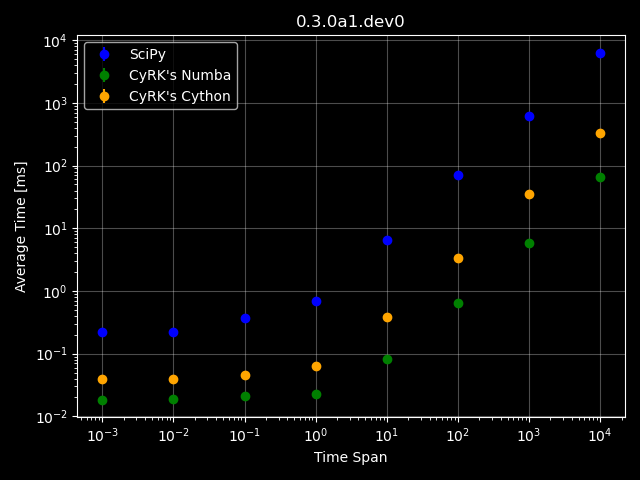
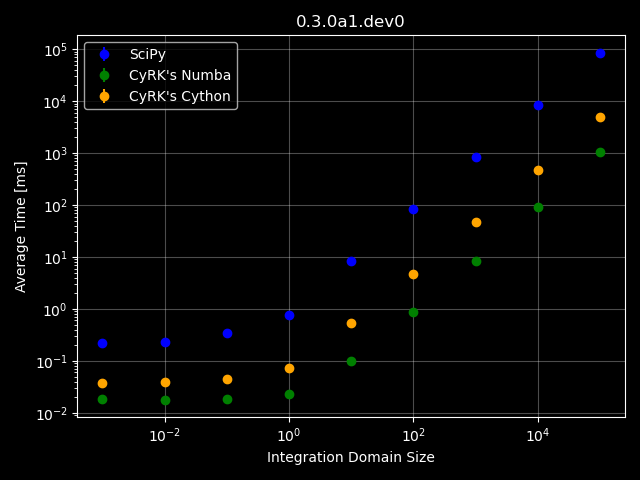
fixed issue in benchmark plots

diff --git a/CHANGES.md b/CHANGES.md
@@ -17,6 +17,7 @@ Performance Improvements
 
 Other Changes
 - Helper functions now have an additional optional kwarg `cache_njit` which is set to `False` but can be toggled to enable njit caching.
+- Fixed issue in function timing calculation used in the benchmark plot.
 
 #### v0.2.4 - Alpha
 
